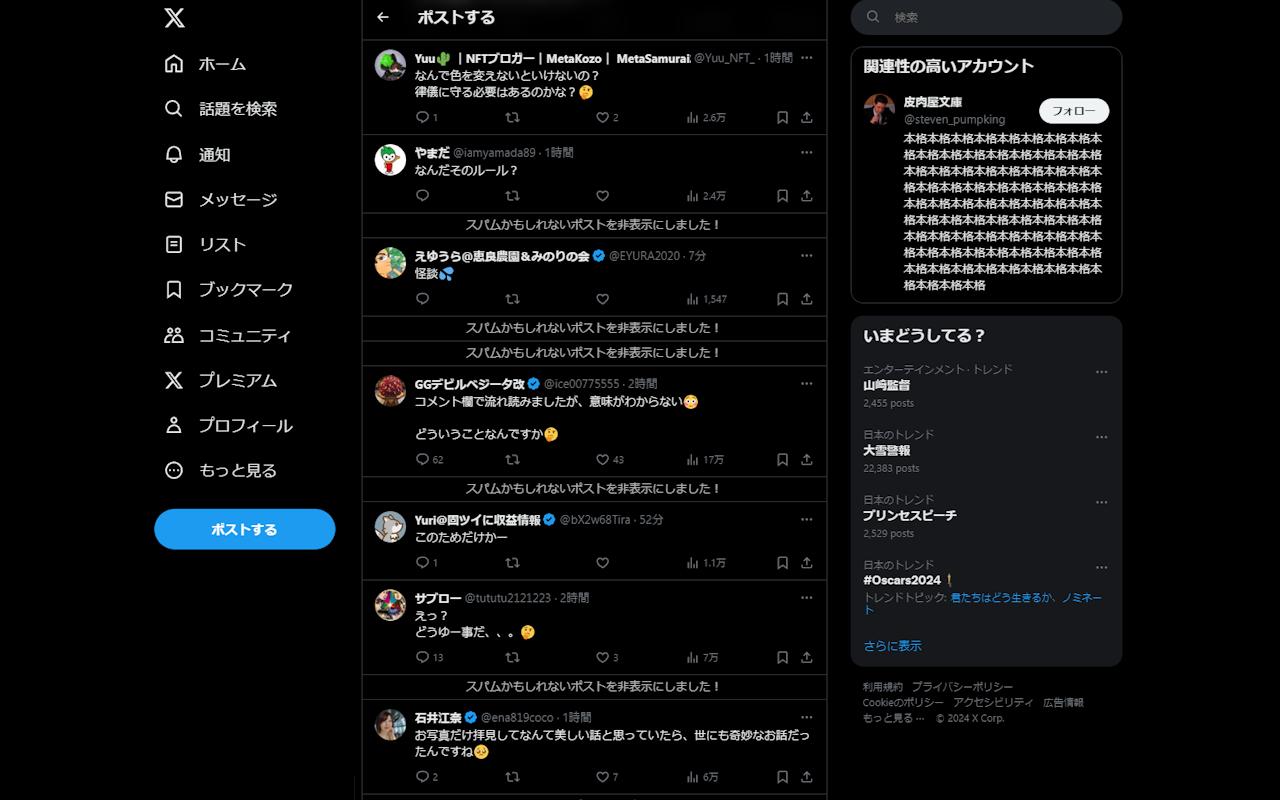
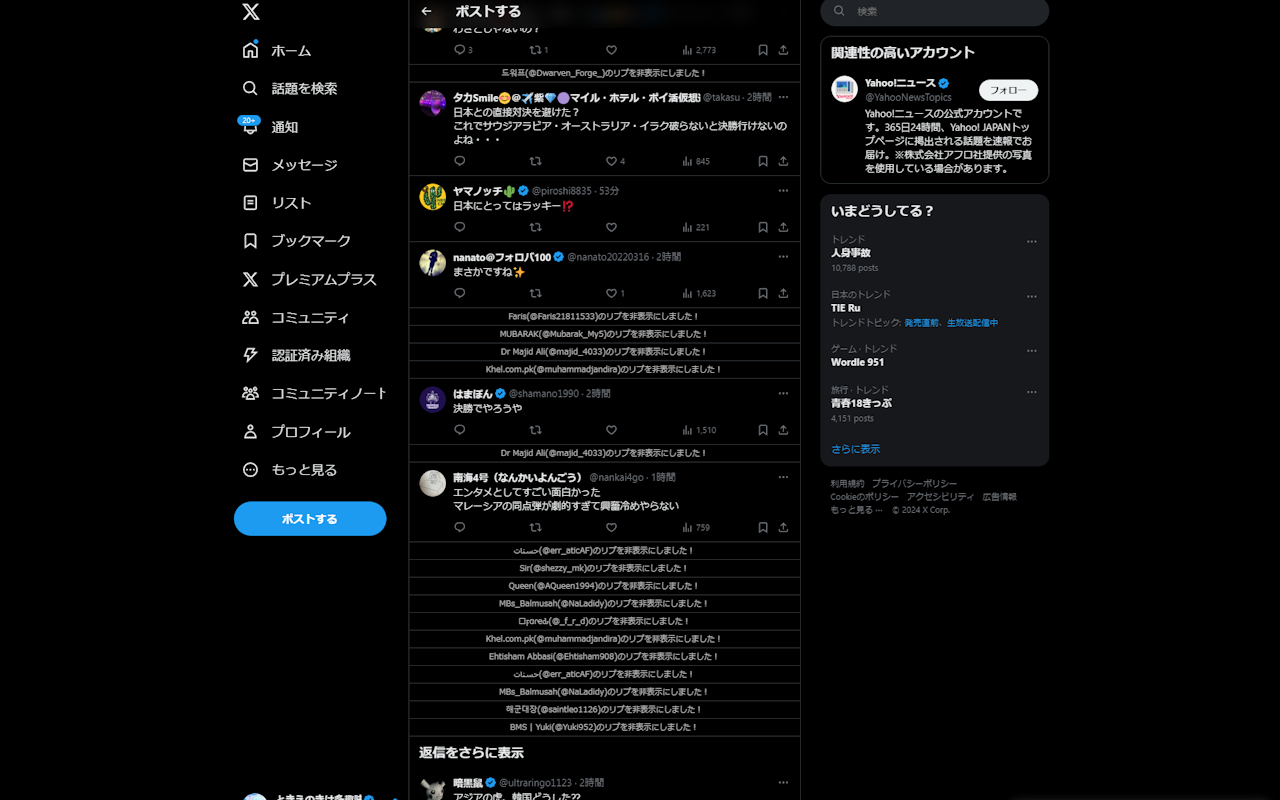
オプション画面を用意

diff --git a/twitterNoSpam.js b/twitterNoSpam.js
@@ -19,8 +19,29 @@ const isJapanese = (string) => {
   return false
 }
 
+/** オプションの項目 */
+const options = {
+  whitelist: undefined,
+}
+/** セットアップ完了時にtrueにする */
+let setuped = false
+
+/** 読み込み時に動く処理 */
+chrome.storage.sync.get(['whitelist'], (item) => {
+  options.whitelist = item.whitelist.split(',')
+  setuped = true
+})
+
+/** Welcomeメッセージ */
 console.log('Twitter No Spam is active')
+
+/** 定期実行 */
 setInterval(() => {
+  /** セットアップ未完了時に実行しない */
+  if (!setuped) {
+    return
+  }
+  /** URLでリプ欄が表示される場所かを判定 */
   if (!location.pathname.includes('/status/')) {
     return
   }
@@ -41,6 +62,8 @@ setInterval(() => {
           for (aTag of aTags) {
             /** ポストのユーザー名 */
             let username
+            /** ポストのユーザーID */
+            let id
             /** アカウント名は日本語が含まれているか？ */
             let isJapaneseName
             /** 認証バッチはあるか？ */
@@ -64,14 +87,44 @@ setInterval(() => {
 
             if (!isJapaneseName && isOfficial) {
               /** スパムタグが付いていない場合に、スパムタグを追加 */
-              if (!isPost.classList.contains('is-spam')) {
-                console.log(username + 'はアフィカスかも？')
+              if (
+                !isPost.classList.contains('is-spam') &&
+                !isPost.classList.contains('is-not-spam')
+              ) {
+                for (a of aTags) {
+                  if (
+                    a.querySelector('div>span') &&
+                    !a.querySelector('div>span').children[0]
+                  ) {
+                    id = a.querySelector('div>span').innerHTML
+                    break
+                  }
+                }
+
+                let continueFlag = false
+                for (whiteId of options.whitelist) {
+                  if (whiteId === id) {
+                    /** スパムじゃないよタグを付ける */
+                    isPost.classList.add('is-not-spam')
+                    console.log(
+                      `${username}(${id})はホワイトリストに含まれています`
+                    )
+                    continueFlag = true
+                  }
+                }
+                if (continueFlag) {
+                  continue
+                }
+
+                console.log(`${username}(${id})はアフィカスかも？`)
+
+                /** スパムタグを付ける */
                 isPost.classList.add('is-spam')
 
                 /** スパムを削除したことを表示 */
                 const spamRemovedDiv = document.createElement('div')
                 const spamRemovedText = document.createTextNode(
-                  'スパムかもしれないポストを非表示にしました！'
+                  `${username}(${id})のリプを非表示にしました！`
                 )
                 spamRemovedDiv.appendChild(spamRemovedText)
                 spamRemovedDiv.classList.add('spam-removed')

diff --git a/options.html b/options.html
@@ -1,0 +1,75 @@
+<!DOCTYPE html>
+<html lang="ja">
+  <head>
+    <title>Options - Twitter No Spam</title>
+    <meta charset="UTF-8" />
+    <style>
+      #app {
+        max-width: 640px;
+        margin: auto;
+      }
+      input[type='text'] {
+        width: 100%;
+      }
+      .option-actions {
+        display: flex;
+        justify-content: flex-end;
+        margin: 4px 0;
+      }
+    </style>
+    <script src="options.js"></script>
+  </head>
+  <body>
+    <div id="app">
+      <h1>Twitter No Spam</h1>
+      <hr />
+      <h2>オプション</h2>
+      <div class="option">
+        <div class="option-section">
+          <h3 class="option-title">ホワイトリスト</h3>
+          <p class="option-description">
+            確実にスパムではないアカウントに関しては、以下のテキストエリアにTwitter
+            IDをカンマ刻みで入力してください。
+          </p>
+          <div class="option-input-area">
+            <input
+              type="text"
+              placeholder="@twitter,@youtube,@news"
+              id="option-whitelist-textarea"
+            />
+          </div>
+        </div>
+        <div class="option-actions">
+          <button id="option-save-button">保存</button>
+        </div>
+      </div>
+      <hr />
+      <h2>About</h2>
+      <div class="about">
+        <div class="about-section">
+          <h3 class="about-title">リンク</h3>
+          <p class="about-description">
+            <a
+              href="https://github.com/jikantoki/Twitter_No_Spam"
+              target="_blank"
+              >Github</a
+            ><br />
+            <a
+              href="https://chromewebstore.google.com/detail/twitter-no-spam/pohkfjndbakfgfaffloiecnfkaaggdbh?hl=ja"
+              target="_blank"
+              >Chrome Webストア</a
+            ><br />
+            <a href="https://twitter.com/jikantoki" target="_blank"
+              >製作者Twitter</a
+            ><br />
+          </p>
+        </div>
+      </div>
+      <hr />
+      <h2>Copyright</h2>
+      <div class="copyright">
+        <p>&copy;ときえのき 2023</p>
+      </div>
+    </div>
+  </body>
+</html>

diff --git a/options.js b/options.js
@@ -1,0 +1,33 @@
+/** オプションの項目 */
+const options = {
+  whitelist: undefined,
+}
+
+/** 読み込み時に動く処理 */
+document.addEventListener('DOMContentLoaded', async () => {
+  await chrome.storage.sync.get(['whitelist'], (item) => {
+    options.whitelist = item.whitelist
+
+    if (options.whitelist) {
+      document.getElementById('option-whitelist-textarea').value =
+        options.whitelist
+    }
+  })
+
+  /** 保存時の処理 */
+  document
+    .getElementById('option-save-button')
+    .addEventListener('click', () => {
+      /** ホワイトリストの項目 */
+      const whitelist = document.getElementById(
+        'option-whitelist-textarea'
+      ).value
+      chrome.storage.sync.set(
+        {
+          whitelist: whitelist,
+        },
+        function () {}
+      )
+      console.log('saved')
+    })
+})

diff --git a/isSpam.css b/isSpam.css
@@ -6,4 +6,5 @@
   margin: 4px;
   opacity: 0.7;
   text-align: center;
+  font-size: 12px;
 }

diff --git a/README.md b/README.md
@@ -1,3 +1,10 @@
 # Twitter No Spam
 
 Twitter(X)のスパムコメントを排除、厳密には認証済みかつアカウント名に日本語が含まれていないものを非表示にします
+
+![動作画面のスクリーンショット](/screenshot.png)
+![オプション画面のスクリーンショット](/screenshot2.png)
+
+## 公開リンク
+
+[Chrome Web ストア](https://chromewebstore.google.com/detail/twitter-no-spam/pohkfjndbakfgfaffloiecnfkaaggdbh?hl=ja)
